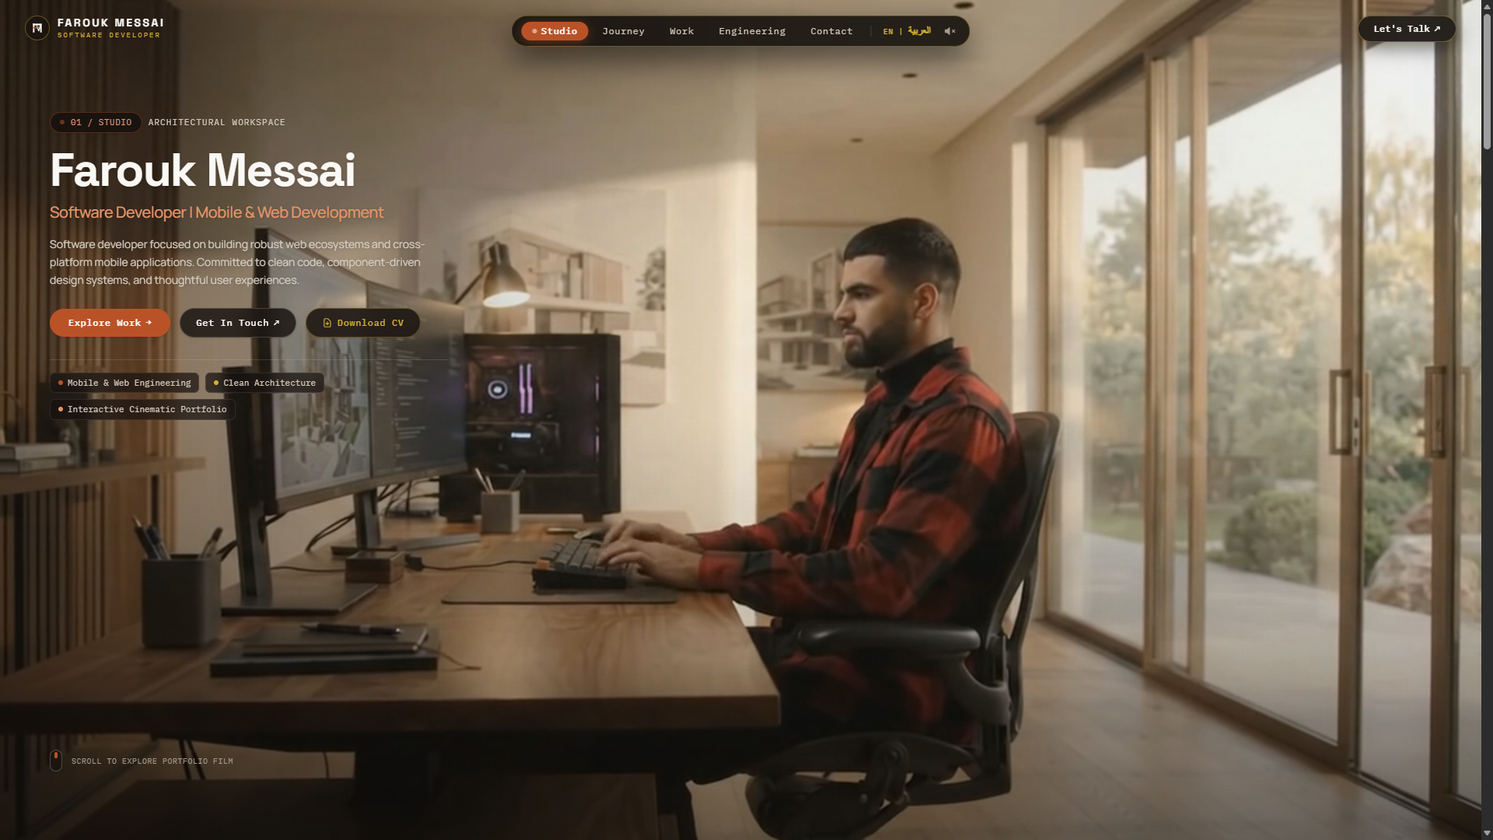
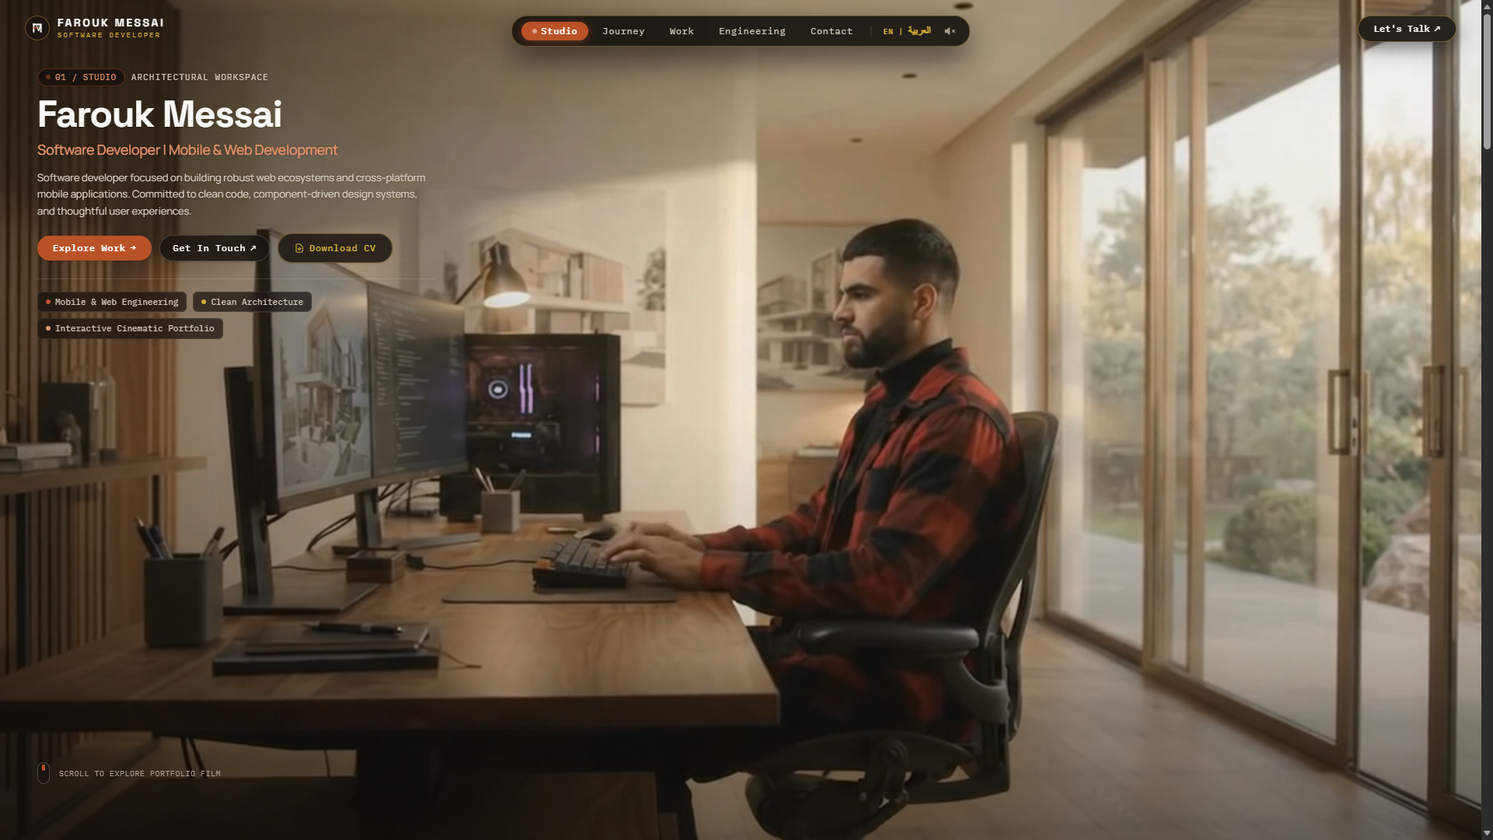
fix(layout): resolve Next.js 16 URL data instant shell error & calibrate vertical viewport padding
- Wrap async params access in Suspense boundary in app/[lang]/page.tsx with instant = false export
- Calibrate vertical padding (pt-18 sm:pt-20 lg:pt-22) across all overlay scenes to prevent bottom edge clipping
- Refine ContactOverlay layout, typography, and console padding so entire card and footer fit cleanly inside viewport
- Constrain ProjectsOverlay console height with max-h-[86vh] and compact padding
- Update verification screenshot suite with calibrated layouts

diff --git a/components/dom/ContactOverlay.tsx b/components/dom/ContactOverlay.tsx
@@ -46,15 +46,15 @@ export function ContactOverlay({ opacity, onBackToTop }: ContactOverlayProps) {
     <section
       id="scene-contact"
       aria-label="Contact: The Horizon & Collaboration"
-      className={`absolute inset-0 flex flex-col justify-between p-4 sm:p-10 lg:p-16 pt-28 sm:pt-32 lg:pt-36 pb-6 sm:pb-8 pointer-events-none transition-opacity duration-200 ease-out select-none ${
+      className={`absolute inset-0 flex flex-col justify-between p-4 sm:p-8 lg:p-12 pt-18 sm:pt-20 lg:pt-22 pb-3 sm:pb-4 pointer-events-none transition-opacity duration-200 ease-out select-none ${
         isVisible ? 'visible' : 'invisible'
       }`}
       style={{ opacity }}
     >
       {/* Left/Center editorial contact layout over the sunset horizon and open sea */}
-      <div className={`w-full max-w-lg lg:max-w-xl ${isRtl ? 'ml-auto text-right' : 'mr-auto text-left'} pointer-events-auto`}>
+      <div className={`w-full max-w-md sm:max-w-lg lg:max-w-lg ${isRtl ? 'ml-auto text-right' : 'mr-auto text-left'} pointer-events-auto`}>
         {/* Section Label — Placed clearly below the floating logo */}
-        <div className={`flex items-center gap-2 mb-2.5 sm:mb-3 ${isRtl ? 'flex-row-reverse justify-end' : ''}`}>
+        <div className={`flex items-center gap-2 mb-1.5 sm:mb-2 ${isRtl ? 'flex-row-reverse justify-end' : ''}`}>
           <span className="inline-flex items-center gap-1.5 px-2.5 py-0.5 rounded-full text-[10px] sm:text-[11px] font-mono tracking-widest border border-[#D4AF37]/40 bg-[#1A1411]/80 text-[#E59368]">
             <span className="w-1.5 h-1.5 rounded-full bg-[#BA5227] animate-pulse" />
             {t.contact.eyebrow}
@@ -65,27 +65,27 @@ export function ContactOverlay({ opacity, onBackToTop }: ContactOverlayProps) {
         </div>
 
         {/* Cinematic Headline */}
-        <h2 className="text-3xl sm:text-5xl lg:text-6xl font-heading font-extrabold tracking-tight text-[#FAF8F5] leading-[1.06] mb-2 sm:mb-3 drop-shadow-[0_4px_16px_rgba(0,0,0,0.8)]">
+        <h2 className="text-2xl sm:text-3xl lg:text-4xl font-heading font-extrabold tracking-tight text-[#FAF8F5] leading-tight mb-1 sm:mb-1.5 drop-shadow-[0_4px_16px_rgba(0,0,0,0.8)]">
           {t.contact.headlineBefore} <span className="text-transparent bg-clip-text bg-gradient-to-r from-[#E59368] via-[#D4AF37] to-[#FAF8F5]">{t.contact.headlineHighlight}</span>
         </h2>
 
-        <p className="text-xs sm:text-sm text-[#D6CEC2] font-body leading-relaxed mb-4 sm:mb-5 max-w-lg drop-shadow-[0_2px_10px_rgba(0,0,0,0.8)]">
+        <p className="text-[11px] sm:text-xs text-[#D6CEC2] font-body leading-relaxed mb-2.5 sm:mb-3 max-w-md sm:max-w-lg drop-shadow-[0_2px_10px_rgba(0,0,0,0.8)]">
           {t.contact.subtitle}
         </p>
 
         {/* Sculpted Glass Dispatch Console */}
-        <div className="w-full rounded-3xl border border-[#D4AF37]/30 bg-[#0D0A08]/85 backdrop-blur-2xl shadow-[0_30px_70px_-15px_rgba(0,0,0,0.85)] p-4 sm:p-5 flex flex-col gap-3.5 mb-3 sm:mb-4">
+        <div className="w-full rounded-2xl sm:rounded-3xl border border-[#D4AF37]/30 bg-[#0D0A08]/85 backdrop-blur-2xl shadow-[0_20px_50px_-10px_rgba(0,0,0,0.85)] p-3 sm:p-4 flex flex-col gap-2 sm:gap-2.5 mb-2 sm:mb-2.5">
           {/* Live Availability Badge */}
-          <div className={`flex items-center justify-between pb-2.5 border-b border-[#E8E2D8]/10 text-[10px] sm:text-[11px] font-mono ${isRtl ? 'flex-row-reverse' : ''}`}>
+          <div className={`flex items-center justify-between pb-1.5 sm:pb-2 border-b border-[#E8E2D8]/10 text-[10px] sm:text-[11px] font-mono ${isRtl ? 'flex-row-reverse' : ''}`}>
             <span className="text-[#A89D8F] uppercase tracking-wider">{t.common.directDispatch}</span>
-            <span className="inline-flex items-center gap-1.5 px-2.5 py-0.5 rounded-full border border-[#D4AF37]/40 bg-[#D4AF37]/10 text-[#D4AF37]">
+            <span className="inline-flex items-center gap-1.5 px-2 py-0.5 rounded-full border border-[#D4AF37]/40 bg-[#D4AF37]/10 text-[#D4AF37] text-[9px] sm:text-[10px]">
               <span className="w-1.5 h-1.5 rounded-full bg-[#D4AF37] animate-pulse" />
               <span>{t.common.openToWorkBadge}</span>
             </span>
           </div>
 
           {/* Email Dispatch Tile */}
-          <div className={`p-3 sm:p-3.5 rounded-2xl bg-gradient-to-r from-[#18110E] to-[#120D0B] border border-[#E8E2D8]/15 flex flex-col sm:flex-row items-start sm:items-center justify-between gap-2.5 shadow-inner ${isRtl ? 'sm:flex-row-reverse' : ''}`}>
+          <div className={`p-2.5 sm:p-3 rounded-xl sm:rounded-2xl bg-gradient-to-r from-[#18110E] to-[#120D0B] border border-[#E8E2D8]/15 flex flex-col sm:flex-row items-start sm:items-center justify-between gap-2 shadow-inner ${isRtl ? 'sm:flex-row-reverse' : ''}`}>
             <div className={`flex-1 min-w-0 ${isRtl ? 'text-right' : 'text-left'}`}>
               <span className="text-[9px] font-mono uppercase text-[#A89D8F] tracking-widest block mb-0.5">{t.common.primaryInbox}</span>
               <a
@@ -97,18 +97,18 @@ export function ContactOverlay({ opacity, onBackToTop }: ContactOverlayProps) {
               </a>
             </div>
 
-            <div className={`flex items-center gap-2 shrink-0 ${isRtl ? 'flex-row-reverse' : ''}`}>
+            <div className={`flex items-center gap-1.5 shrink-0 ${isRtl ? 'flex-row-reverse' : ''}`}>
               <a
                 href={`mailto:${contact.email}`}
                 onClick={() => playClick('light')}
-                className="px-3 py-1.5 rounded-xl text-xs font-mono font-semibold bg-[#BA5227] text-[#FAF8F5] hover:bg-[#CF6234] transition-all inline-flex items-center gap-1 shadow-sm active:scale-95"
+                className="px-2.5 py-1 sm:py-1.5 rounded-lg sm:rounded-xl text-[11px] sm:text-xs font-mono font-semibold bg-[#BA5227] text-[#FAF8F5] hover:bg-[#CF6234] transition-all inline-flex items-center gap-1 shadow-sm active:scale-95"
               >
                 <span>{t.common.composeMail}</span>
                 <span className="text-xs">↗</span>
               </a>
               <button
                 onClick={handleCopyEmail}
-                className="px-2.5 py-1.5 rounded-xl text-xs font-mono border border-[#E8E2D8]/20 bg-[#1A1411] text-[#D6CEC2] hover:text-[#FAF8F5] hover:border-[#D4AF37]/60 transition-colors cursor-pointer inline-flex items-center gap-1 active:scale-95"
+                className="px-2 py-1 sm:py-1.5 rounded-lg sm:rounded-xl text-[11px] sm:text-xs font-mono border border-[#E8E2D8]/20 bg-[#1A1411] text-[#D6CEC2] hover:text-[#FAF8F5] hover:border-[#D4AF37]/60 transition-colors cursor-pointer inline-flex items-center gap-1 active:scale-95"
                 aria-label={t.common.copy}
               >
                 {copied ? t.common.copied : copyError ? 'Manual Copy' : `${t.common.copy} ⎘`}
@@ -117,19 +117,19 @@ export function ContactOverlay({ opacity, onBackToTop }: ContactOverlayProps) {
           </div>
 
           {/* Localized CV Download Action Strip */}
-          <div className={`p-3 rounded-2xl border border-[#D4AF37]/25 bg-[#17120F]/90 flex items-center justify-between gap-3 ${isRtl ? 'flex-row-reverse' : ''}`}>
+          <div className={`p-2 sm:p-2.5 rounded-xl border border-[#D4AF37]/25 bg-[#17120F]/90 flex items-center justify-between gap-2.5 ${isRtl ? 'flex-row-reverse' : ''}`}>
             <div className={`flex items-center gap-2 text-xs font-mono text-[#D4AF37] ${isRtl ? 'flex-row-reverse' : ''}`}>
-              <svg className="w-4 h-4 shrink-0 text-[#E59368]" fill="none" viewBox="0 0 24 24" stroke="currentColor">
+              <svg className="w-3.5 h-3.5 shrink-0 text-[#E59368]" fill="none" viewBox="0 0 24 24" stroke="currentColor">
                 <path strokeLinecap="round" strokeLinejoin="round" strokeWidth={2} d="M9 12h6m-6 4h6m2 5H7a2 2 0 01-2-2V5a2 2 0 012-2h5.586a1 1 0 01.707.293l5.414 5.414a1 1 0 01.293.707V19a2 2 0 01-2 2z" />
               </svg>
-              <span className="font-semibold">{t.common.downloadCv} (PDF)</span>
+              <span className="font-semibold text-[11px] sm:text-xs">{t.common.downloadCv} (PDF)</span>
             </div>
 
             <a
               href={`/cv/farouk-messai-cv-${locale}.pdf`}
               download={`farouk-messai-cv-${locale}.pdf`}
               onClick={() => playFeedback()}
-              className="px-3.5 py-1.5 rounded-xl text-xs font-mono font-bold bg-[#D4AF37] text-[#140F0C] hover:bg-[#E5C358] transition-colors inline-flex items-center gap-1 shadow-sm active:scale-95"
+              className="px-3 py-1 rounded-lg sm:rounded-xl text-[11px] sm:text-xs font-mono font-bold bg-[#D4AF37] text-[#140F0C] hover:bg-[#E5C358] transition-colors inline-flex items-center gap-1 shadow-sm active:scale-95"
             >
               <span>Download</span>
               <span className={isRtl ? 'rtl-flip' : ''}>&darr;</span>
@@ -137,19 +137,19 @@ export function ContactOverlay({ opacity, onBackToTop }: ContactOverlayProps) {
           </div>
 
           {/* Verified Channels Grid: GitHub & LinkedIn */}
-          <div className="grid grid-cols-2 gap-2 sm:gap-2.5">
+          <div className="grid grid-cols-2 gap-2">
             <a
               href={contact.github}
               target="_blank"
               rel="noopener noreferrer"
               onClick={() => playClick('light')}
-              className="p-2.5 sm:p-3 rounded-2xl border border-[#E8E2D8]/15 bg-black/40 hover:bg-[#1C1512] hover:border-[#D4AF37]/50 transition-all flex flex-col justify-between group"
+              className="p-2 sm:p-2.5 rounded-xl border border-[#E8E2D8]/15 bg-black/40 hover:bg-[#1C1512] hover:border-[#D4AF37]/50 transition-all flex flex-col justify-between group"
             >
-              <div className={`flex items-center justify-between text-[9px] sm:text-[10px] font-mono text-[#A89D8F] mb-0.5 ${isRtl ? 'flex-row-reverse' : ''}`}>
+              <div className={`flex items-center justify-between text-[9px] font-mono text-[#A89D8F] mb-0.5 ${isRtl ? 'flex-row-reverse' : ''}`}>
                 <span>GITHUB</span>
                 <span className="text-[#D4AF37] group-hover:translate-x-0.5 group-hover:-translate-y-0.5 transition-transform">↗</span>
               </div>
-              <div className="text-xs sm:text-sm font-mono font-bold text-[#FAF8F5] truncate">{t.contact.githubTitle}</div>
+              <div className="text-xs sm:text-[13px] font-mono font-bold text-[#FAF8F5] truncate">{t.contact.githubTitle}</div>
               <span className="text-[8px] sm:text-[9px] font-mono text-[#E59368] mt-0.5">{t.contact.githubSubtitle}</span>
             </a>
 
@@ -158,19 +158,19 @@ export function ContactOverlay({ opacity, onBackToTop }: ContactOverlayProps) {
               target="_blank"
               rel="noopener noreferrer"
               onClick={() => playClick('light')}
-              className="p-2.5 sm:p-3 rounded-2xl border border-[#E8E2D8]/15 bg-black/40 hover:bg-[#1C1512] hover:border-[#D4AF37]/50 transition-all flex flex-col justify-between group"
+              className="p-2 sm:p-2.5 rounded-xl border border-[#E8E2D8]/15 bg-black/40 hover:bg-[#1C1512] hover:border-[#D4AF37]/50 transition-all flex flex-col justify-between group"
             >
-              <div className={`flex items-center justify-between text-[9px] sm:text-[10px] font-mono text-[#A89D8F] mb-0.5 ${isRtl ? 'flex-row-reverse' : ''}`}>
+              <div className={`flex items-center justify-between text-[9px] font-mono text-[#A89D8F] mb-0.5 ${isRtl ? 'flex-row-reverse' : ''}`}>
                 <span>LINKEDIN</span>
                 <span className="text-[#D4AF37] group-hover:translate-x-0.5 group-hover:-translate-y-0.5 transition-transform">↗</span>
               </div>
-              <div className="text-xs sm:text-sm font-mono font-bold text-[#FAF8F5] truncate">{t.contact.linkedinTitle}</div>
+              <div className="text-xs sm:text-[13px] font-mono font-bold text-[#FAF8F5] truncate">{t.contact.linkedinTitle}</div>
               <span className="text-[8px] sm:text-[9px] font-mono text-[#E59368] mt-0.5">{t.contact.linkedinSubtitle}</span>
             </a>
           </div>
 
           {/* Location & Response SLA */}
-          <div className={`flex items-center justify-between text-[9px] sm:text-[10px] font-mono text-[#A89D8F] pt-2 border-t border-[#E8E2D8]/10 ${isRtl ? 'flex-row-reverse' : ''}`}>
+          <div className={`flex items-center justify-between text-[9px] sm:text-[10px] font-mono text-[#A89D8F] pt-1.5 border-t border-[#E8E2D8]/10 ${isRtl ? 'flex-row-reverse' : ''}`}>
             <span>{isRtl ? 'الموقع:' : 'Location:'} <strong className="text-[#FAF8F5]">{t.contact.location}</strong></span>
             <span className="text-[#34D399]">{t.common.averageResponse}</span>
           </div>
@@ -178,7 +178,7 @@ export function ContactOverlay({ opacity, onBackToTop }: ContactOverlayProps) {
       </div>
 
       {/* Refined Minimal Horizon Footer */}
-      <footer className={`border-t border-[#E8E2D8]/10 pt-3 flex flex-wrap items-center justify-between gap-3 text-xs font-mono text-[#A89D8F] pointer-events-auto ${isRtl ? 'flex-row-reverse' : ''}`}>
+      <footer className={`border-t border-[#E8E2D8]/10 pt-2 sm:pt-2.5 flex flex-wrap items-center justify-between gap-2 text-[10px] sm:text-[11px] font-mono text-[#A89D8F] pointer-events-auto ${isRtl ? 'flex-row-reverse' : ''}`}>
         <div className={`flex items-center gap-2 ${isRtl ? 'flex-row-reverse' : ''}`}>
           <span className="w-1.5 h-1.5 rounded-full bg-[#BA5227]" />
           <span className="text-[11px] sm:text-xs">

diff --git a/components/dom/HeroOverlay.tsx b/components/dom/HeroOverlay.tsx
@@ -33,7 +33,7 @@ export function HeroOverlay({ opacity, onExploreWork, onContactClick }: HeroOver
     <section
       id="scene-studio"
       aria-label="Studio: Architectural Workspace"
-      className={`absolute inset-0 flex flex-col justify-between p-6 sm:p-12 lg:p-16 pt-28 sm:pt-32 lg:pt-36 pointer-events-none transition-opacity duration-200 ease-out select-none ${
+      className={`absolute inset-0 flex flex-col justify-between p-4 sm:p-8 lg:p-12 pt-18 sm:pt-20 lg:pt-22 pb-4 sm:pb-5 pointer-events-none transition-opacity duration-200 ease-out select-none ${
         isVisible ? 'visible' : 'invisible'
       }`}
       style={{ opacity }}
@@ -41,8 +41,8 @@ export function HeroOverlay({ opacity, onExploreWork, onContactClick }: HeroOver
       {/* Editorial Content — Positioned in the clean upper negative space */}
       <div className="max-w-[88vw] sm:max-w-lg lg:max-w-xl pointer-events-auto">
         {/* Availability Pill & Section Label */}
-        <div className="flex flex-wrap items-center gap-2 mb-3 sm:mb-4">
-          <span className="inline-flex items-center gap-2 px-3 py-1 rounded-full text-[10px] sm:text-[11px] font-mono tracking-wider border border-[#BA5227]/40 bg-[#15100E]/85 backdrop-blur-md text-[#E59368] shadow-sm">
+        <div className="flex flex-wrap items-center gap-2 mb-2 sm:mb-2.5">
+          <span className="inline-flex items-center gap-1.5 px-2.5 py-0.5 rounded-full text-[10px] sm:text-[11px] font-mono tracking-wider border border-[#BA5227]/40 bg-[#15100E]/85 backdrop-blur-md text-[#E59368] shadow-sm">
             <span className="w-1.5 h-1.5 rounded-full bg-[#BA5227] animate-pulse" />
             {t.hero.eyebrow}
           </span>
@@ -52,24 +52,24 @@ export function HeroOverlay({ opacity, onExploreWork, onContactClick }: HeroOver
         </div>
 
         {/* Developer Name & Core Title */}
-        <h1 className="text-3xl sm:text-5xl lg:text-6xl font-heading font-extrabold tracking-tight leading-[1.08] mb-2 text-[#FAF8F5] drop-shadow-sm">
+        <h1 className="text-3xl sm:text-4xl lg:text-5xl font-heading font-extrabold tracking-tight leading-[1.08] mb-1.5 text-[#FAF8F5] drop-shadow-sm">
           {t.hero.name}
         </h1>
 
-        <p className="text-base sm:text-lg lg:text-xl font-body font-medium tracking-tight mb-4 text-[#E59368] drop-shadow-sm">
+        <p className="text-sm sm:text-base lg:text-lg font-body font-medium tracking-tight mb-2.5 sm:mb-3 text-[#E59368] drop-shadow-sm">
           {t.hero.role}
         </p>
 
         {/* Concise Editorial Statement */}
-        <p className="text-xs sm:text-sm font-body leading-relaxed mb-5 sm:mb-6 max-w-md sm:max-w-lg text-[#D6CEC2] drop-shadow-sm">
+        <p className="text-xs sm:text-[13px] font-body leading-relaxed mb-4 sm:mb-4.5 max-w-md sm:max-w-lg text-[#D6CEC2] drop-shadow-sm">
           {t.hero.bioIntro}
         </p>
 
         {/* Primary Actions: Explore, Contact, and Download CV */}
-        <div className="flex flex-wrap items-center gap-2.5 sm:gap-3 mb-6 sm:mb-7">
+        <div className="flex flex-wrap items-center gap-2 sm:gap-2.5 mb-4 sm:mb-5">
           <button
             onClick={handleExplore}
-            className="px-5 sm:px-6 py-2.5 rounded-full text-xs font-mono font-semibold tracking-wider transition-all duration-200 cursor-pointer bg-[#BA5227] text-[#FAF8F5] hover:bg-[#CF6234] hover:shadow-lg hover:shadow-[#BA5227]/25 inline-flex items-center gap-1.5 active:scale-95 shadow-sm"
+            className="px-4 sm:px-5 py-2 rounded-full text-xs font-mono font-semibold tracking-wider transition-all duration-200 cursor-pointer bg-[#BA5227] text-[#FAF8F5] hover:bg-[#CF6234] hover:shadow-lg hover:shadow-[#BA5227]/25 inline-flex items-center gap-1.5 active:scale-95 shadow-sm"
           >
             <span>{t.common.exploreWork}</span>
             <span className={isRtl ? 'rtl-flip' : ''}>&rarr;</span>
@@ -77,7 +77,7 @@ export function HeroOverlay({ opacity, onExploreWork, onContactClick }: HeroOver
 
           <button
             onClick={handleContact}
-            className="px-4 sm:px-5 py-2.5 rounded-full text-xs font-mono font-medium tracking-wider transition-all duration-200 cursor-pointer border border-[#E8E2D8]/20 bg-[#15100E]/80 text-[#FAF8F5] hover:bg-[#1C1512] hover:border-[#D4AF37]/50 backdrop-blur-md active:scale-95 shadow-sm inline-flex items-center gap-1.5"
+            className="px-3.5 sm:px-4 py-2 rounded-full text-xs font-mono font-medium tracking-wider transition-all duration-200 cursor-pointer border border-[#E8E2D8]/20 bg-[#15100E]/80 text-[#FAF8F5] hover:bg-[#1C1512] hover:border-[#D4AF37]/50 backdrop-blur-md active:scale-95 shadow-sm inline-flex items-center gap-1.5"
           >
             <span>{t.common.getInTouch}</span>
             <span className="text-xs">↗</span>

diff --git a/components/dom/JourneyOverlay.tsx b/components/dom/JourneyOverlay.tsx
@@ -45,7 +45,7 @@ export function JourneyOverlay({ opacity, progress }: JourneyOverlayProps) {
     <section
       id="scene-journey"
       aria-label="Journey: Architectural Promenade"
-      className={`absolute inset-0 flex flex-col justify-start p-6 sm:p-12 lg:p-16 pt-28 sm:pt-32 lg:pt-36 pointer-events-none transition-opacity duration-200 ease-out select-none ${
+      className={`absolute inset-0 flex flex-col justify-start p-4 sm:p-8 lg:p-12 pt-18 sm:pt-20 lg:pt-22 pb-4 sm:pb-5 pointer-events-none transition-opacity duration-200 ease-out select-none ${
         isVisible ? 'visible' : 'invisible'
       }`}
       style={{ opacity }}
@@ -53,8 +53,8 @@ export function JourneyOverlay({ opacity, progress }: JourneyOverlayProps) {
       {/* Editorial Narrative — Positioned over negative space */}
       <div className={`w-full max-w-md sm:max-w-lg lg:max-w-xl ${isRtl ? 'ml-auto text-right' : 'mr-auto text-left'} pointer-events-auto`}>
         {/* Section Pill */}
-        <div className={`flex items-center gap-2 mb-3 sm:mb-4 ${isRtl ? 'flex-row-reverse justify-end' : ''}`}>
-          <span className="inline-flex items-center gap-2 px-3 py-1 rounded-full text-[10px] sm:text-[11px] font-mono tracking-wider border border-[#D4AF37]/40 bg-[#15100E]/80 backdrop-blur-md text-[#D4AF37] shadow-sm">
+        <div className={`flex items-center gap-2 mb-2 sm:mb-2.5 ${isRtl ? 'flex-row-reverse justify-end' : ''}`}>
+          <span className="inline-flex items-center gap-1.5 px-2.5 py-0.5 rounded-full text-[10px] sm:text-[11px] font-mono tracking-wider border border-[#D4AF37]/40 bg-[#15100E]/80 backdrop-blur-md text-[#D4AF37] shadow-sm">
             <span className="w-1.5 h-1.5 rounded-full bg-[#D4AF37] animate-pulse" />
             {t.journey.eyebrow}
           </span>
@@ -64,16 +64,16 @@ export function JourneyOverlay({ opacity, progress }: JourneyOverlayProps) {
         </div>
 
         {/* Narrative Title & Atmospheric Statement */}
-        <h2 className="text-2xl sm:text-4xl lg:text-5xl font-heading font-extrabold tracking-tight leading-[1.1] text-[#FAF8F5] mb-2 sm:mb-3 drop-shadow-sm">
+        <h2 className="text-2xl sm:text-3xl lg:text-4xl font-heading font-extrabold tracking-tight leading-tight text-[#FAF8F5] mb-1.5 sm:mb-2 drop-shadow-sm">
           {t.journey.title}
         </h2>
 
-        <p className="text-xs sm:text-sm text-[#D6CEC2] font-body leading-relaxed mb-6 sm:mb-7 max-w-md lg:max-w-lg drop-shadow-sm">
+        <p className="text-xs sm:text-[13px] text-[#D6CEC2] font-body leading-relaxed mb-4 sm:mb-5 max-w-md lg:max-w-lg drop-shadow-sm">
           {t.journey.subtitle}
         </p>
 
         {/* Scroll-Progressive Animated Timeline Track */}
-        <div className={`relative ${isRtl ? 'pr-6 sm:pr-7' : 'pl-6 sm:pl-7'} space-y-4`}>
+        <div className={`relative ${isRtl ? 'pr-5 sm:pr-6' : 'pl-5 sm:pl-6'} space-y-3 sm:space-y-3.5`}>
           {/* Background vertical architectural guideline */}
           <div
             className={`absolute ${isRtl ? 'right-[7px]' : 'left-[7px]'} top-2 bottom-2 w-0.5 bg-[#E8E2D8]/15 rounded-full pointer-events-none`}

diff --git a/app/[lang]/page.tsx b/app/[lang]/page.tsx
@@ -1,8 +1,11 @@
+import { Suspense } from 'react';
 import type { Metadata } from 'next';
 import { notFound } from 'next/navigation';
 import { CinematicExperience } from '@/components/cinematic/CinematicExperience';
 import { enDictionary } from '@/config/translations/en';
 import { arDictionary } from '@/config/translations/ar';
+
+export const instant = false;
 
 export function generateStaticParams() {
   return [{ lang: 'en' }, { lang: 'ar' }];
@@ -44,7 +47,7 @@ export async function generateMetadata({
   };
 }
 
-export default async function LocalizedPage({
+async function LocalizedContent({
   params,
 }: {
   params: Promise<{ lang: string }>;
@@ -54,9 +57,19 @@ export default async function LocalizedPage({
     notFound();
   }
 
+  return <CinematicExperience />;
+}
+
+export default function LocalizedPage({
+  params,
+}: {
+  params: Promise<{ lang: string }>;
+}) {
   return (
     <main className="w-full min-h-screen bg-[#0E0C0A]">
-      <CinematicExperience />
+      <Suspense fallback={<div className="w-full min-h-screen bg-[#0E0C0A]" />}>
+        <LocalizedContent params={params} />
+      </Suspense>
     </main>
   );
 }

diff --git a/components/dom/ProjectsOverlay.tsx b/components/dom/ProjectsOverlay.tsx
@@ -96,7 +96,7 @@ export function ProjectsOverlay({
       >
         {/* --- UNIFIED ARCHITECTURAL EXHIBITION CONSOLE --- */}
         <div
-          className={`w-full max-w-[480px] lg:max-w-[520px] xl:max-w-[550px] rounded-3xl bg-[#0D0A08]/85 backdrop-blur-2xl border border-[#D4AF37]/30 shadow-[0_30px_70px_-15px_rgba(0,0,0,0.9)] p-4 sm:p-5 flex flex-col gap-3.5 pointer-events-auto transition-all duration-300 ${
+          className={`w-full max-w-[460px] lg:max-w-[500px] xl:max-w-[520px] max-h-[86vh] overflow-y-auto rounded-3xl bg-[#0D0A08]/85 backdrop-blur-2xl border border-[#D4AF37]/30 shadow-[0_30px_70px_-15px_rgba(0,0,0,0.9)] p-3.5 sm:p-4.5 flex flex-col gap-3 pointer-events-auto transition-all duration-300 ${
             isRtl ? 'text-right' : 'text-left'
           }`}
           onTouchStart={handleTouchStart}

diff --git a/components/dom/SkillsOverlay.tsx b/components/dom/SkillsOverlay.tsx
@@ -29,7 +29,7 @@ export function SkillsOverlay({ opacity }: SkillsOverlayProps) {
     <section
       id="scene-engineering"
       aria-label="Engineering: Systems Lab & Specializations"
-      className={`absolute inset-0 flex flex-col justify-center p-4 sm:p-10 lg:p-14 pt-28 sm:pt-32 lg:pt-36 pointer-events-none transition-opacity duration-200 ease-out select-none ${
+      className={`absolute inset-0 flex flex-col justify-center p-4 sm:p-8 lg:p-12 pt-18 sm:pt-20 lg:pt-22 pb-4 sm:pb-5 pointer-events-none transition-opacity duration-200 ease-out select-none ${
         isVisible ? 'visible' : 'invisible'
       }`}
       style={{ opacity }}

diff --git a/config/translations/ar.ts b/config/translations/ar.ts
@@ -328,3 +328,4 @@ export const arDictionary: TranslationDictionary = {
     linkedinSubtitle: 'الشبكة المهنية',
   },
 };
+

diff --git a/config/translations/en.ts b/config/translations/en.ts
@@ -327,3 +327,4 @@ export const enDictionary: TranslationDictionary = {
     linkedinSubtitle: 'Professional Network',
   },
 };
+

diff --git a/proxy.ts b/proxy.ts
@@ -11,3 +11,4 @@ export function proxy(request: NextRequest) {
 export const config = {
   matcher: ['/'],
 };
+

diff --git a/config/translations/types.ts b/config/translations/types.ts
@@ -140,3 +140,4 @@ export interface TranslationDictionary {
     linkedinSubtitle: string;
   };
 }
+

diff --git a/lib/audio/SoundEngine.ts b/lib/audio/SoundEngine.ts
@@ -239,3 +239,4 @@ class SoundEngine {
 }
 
 export const soundEngine = new SoundEngine();
+

diff --git a/docs/USER_ASSET_REQUEST.md b/docs/USER_ASSET_REQUEST.md
@@ -57,3 +57,4 @@ While the system is 100% production-ready out of the box with generated assets a
   - GitHub: `https://github.com/Farouk-MY`
   - LinkedIn: `https://linkedin.com/in/faroukmessai`
 - **Optional Action:** If your LinkedIn username or primary inbox changes in the future, simply update the constants in `config/portfolioData.ts`.
+
